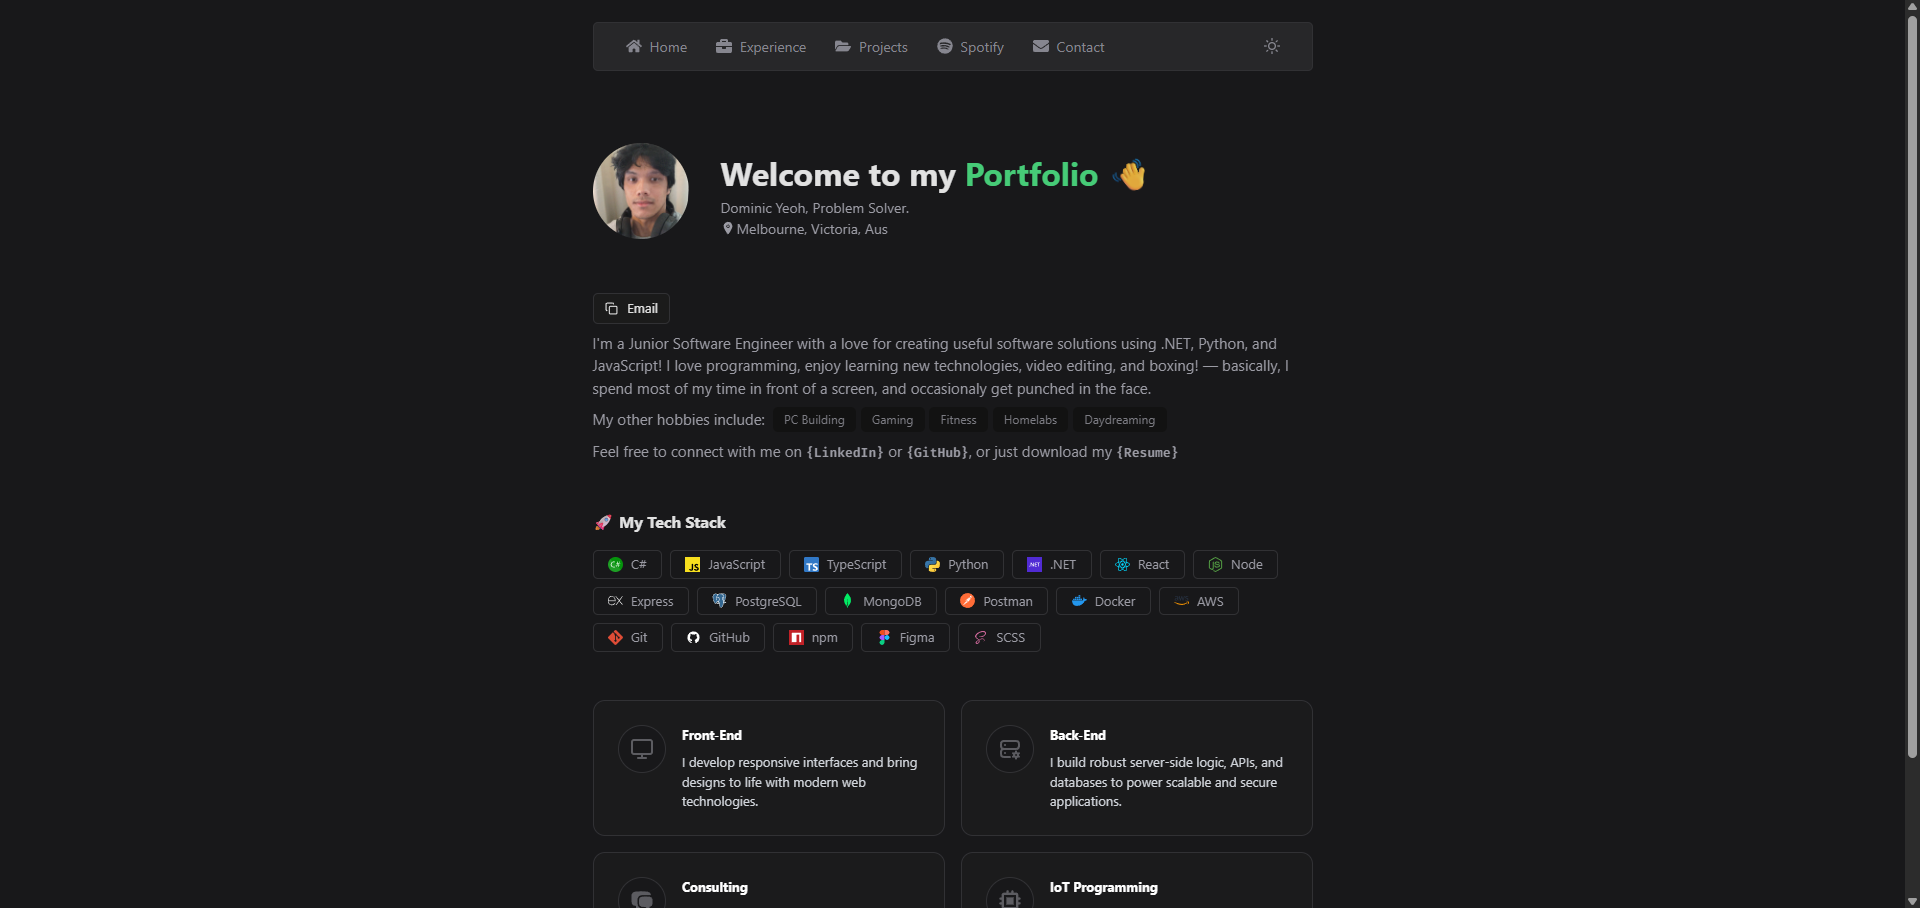
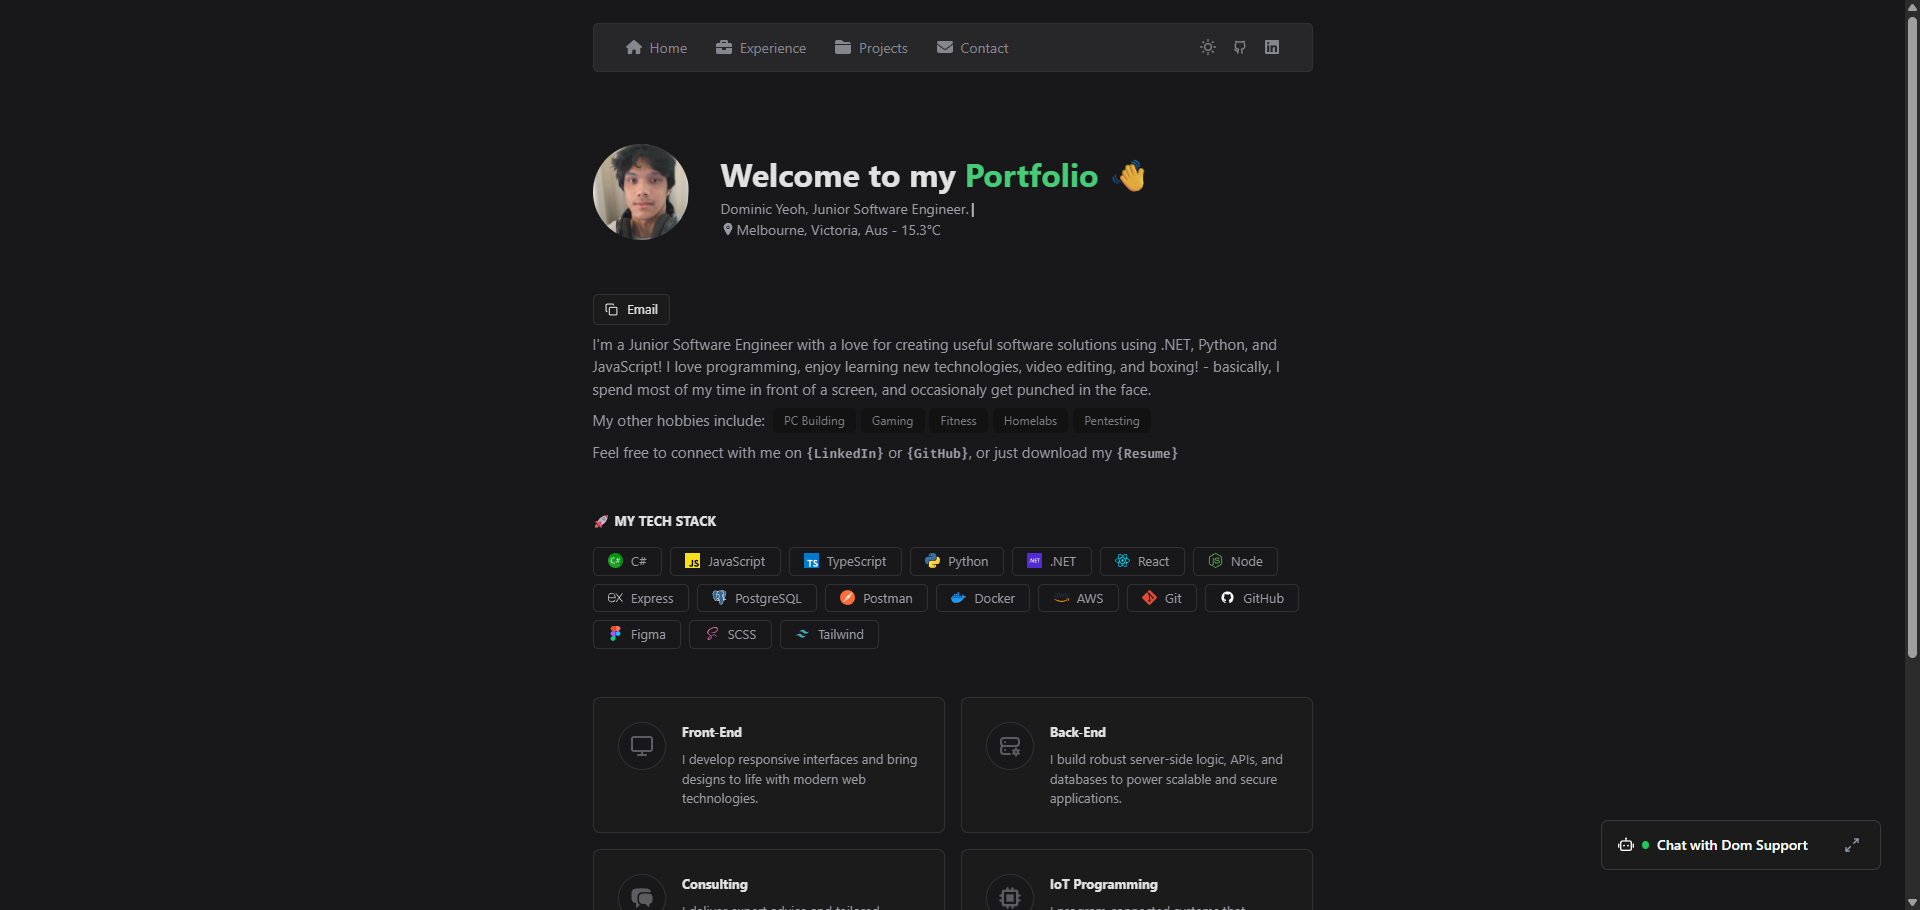
added readme wooo

diff --git a/portfolio-server/index.js b/portfolio-server/index.js
@@ -106,15 +106,9 @@ app.get('/callback', function (req, res) {
                 OWNER_TOKENS.expires_at = Date.now() + (body.expires_in * 1000);
 
                 console.log('Owner authenticated successfully!');
-                res.send(`
-                    <p>Authentication Successful! <a href="http://localhost:5173">Go to your portfolio</a></p>
-                `);
-                
+                res.send(` <p>Authentication Successful! <a href="http://localhost:5173">Go to portfolio</a></p>`);
             } else {
-                res.redirect('/#' +
-                    querystring.stringify({
-                        error: 'invalid_token'
-                    }));
+                res.redirect('/#' + querystring.stringify({ error: 'invalid_token' }));
             }
         });
     }
@@ -132,9 +126,7 @@ app.get('/status', function (req, res) {
 // show currently playing track to portfolio visitors
 app.get('/currently-playing', function (req, res) {
     if (!OWNER_TOKENS.access_token) {
-        return res.status(503).json({ 
-            error: 'Owner not authenticated. Portfolio owner needs to visit /login first.' 
-        });
+        return res.status(503).json({ error: 'Owner not authenticated. Portfolio owner needs to visit /login first.'});
     }
 
     // check if silly token did an expired
@@ -142,9 +134,7 @@ app.get('/currently-playing', function (req, res) {
         if (OWNER_TOKENS.refresh_token) {
             return refreshOwnerTokenAndRetry(res, 'currently-playing');
         } else {
-            return res.status(503).json({ 
-                error: 'Owner authentication expired. Portfolio owner needs to re-authenticate.' 
-            });
+            return res.status(503).json({ error: 'Owner authentication expired. Portfolio owner needs to re-authenticate.' });
         }
     }
 
@@ -188,18 +178,14 @@ app.get('/currently-playing', function (req, res) {
 // shows my recently played tracks to portfolio visitors
 app.get('/recently-played', function (req, res) {
     if (!OWNER_TOKENS.access_token) {
-        return res.status(503).json({ 
-            error: 'Owner not authenticated. Portfolio owner needs to visit /login first.' 
-        });
+        return res.status(503).json({ error: 'Owner not authenticated. Portfolio owner needs to visit /login first.' });
     }
 
     if (Date.now() >= OWNER_TOKENS.expires_at) {
         if (OWNER_TOKENS.refresh_token) {
             return refreshOwnerTokenAndRetry(res, 'recently-played');
         } else {
-            return res.status(503).json({ 
-                error: 'Owner authentication expired. Portfolio owner needs to re-authenticate.' 
-            });
+            return res.status(503).json({ error: 'Owner authentication expired. Portfolio owner needs to re-authenticate.' });
         }
     }
 

diff --git a/portfolio/src/components/profile projects/Projects.js b/portfolio/src/components/profile projects/Projects.js
@@ -11,10 +11,12 @@ import porfolio from "../../assets/project images/portfolio.png";
 import restful from "../../assets/project images/restfulapi.png";
 import eforensic from "../../assets/project images/eforensic.png"
 import cracker from "../../assets/project images/cracker.png"
+import portfolioserver from "../../assets/project images/portfolio-server.png"
 import dotnetSvg from "../../assets/tech stack icons/dotnet.svg"
 import pythonSvg from "../../assets/tech stack icons/python.svg"
 import jsSvg from "../../assets/tech stack icons/javascript.svg"
 import tsSvg from "../../assets/tech stack icons/typescript-icon.svg"
+import nodeSvg from "../../assets/tech stack icons/nodejs-icon.svg"
 
 export const projects = [
     {
@@ -62,8 +64,24 @@ export const projects = [
         language: jsSvg,
         img: porfolio,
         desc: "My personal portfolio website, showcasing my projects and skills! Built with React and Vite.",
-        demo: "https://dominicyeoh.netlify.app/",
-        github: "https://dominicyeoh.netlify.app/"
+        demo: "https://github.com/Teu2/2025-Portfolio",
+        github: "https://github.com/Teu2/2025-Portfolio"
+    },
+    {
+        title: "2025 Portfolio Server",
+        tech: "backend",
+        techStack: [
+            "JavaScript",
+            "Node.js",
+            "Express",
+            "Spotify API",
+            "OAuth2",
+        ],
+        language: nodeSvg,
+        img: portfolioserver,
+        desc: "A Node.js server for my portfolio, that fetches my Spotify activity and provides a chatbot for the frontend.",
+        demo: "https://github.com/Teu2/2025-Portfolio",
+        github: "https://github.com/Teu2/2025-Portfolio"
     },
     {
         title: "Ellenex Monitoring IoT Platform",

diff --git a/portfolio-server/README.md b/portfolio-server/README.md
@@ -1,0 +1,10 @@
+#### SPOTIFY API INTEGRATION
+Technologies: Node.js, Express, Spotify API, Axios, Querystring
+- OAuth 2.0 Implementation
+- API Integration 
+- Token Management
+- Environment Configuration 
+- CORS & Origin Policy Handling 
+- Error Handling 
+- Token Refresh
+- Rate Limiting
